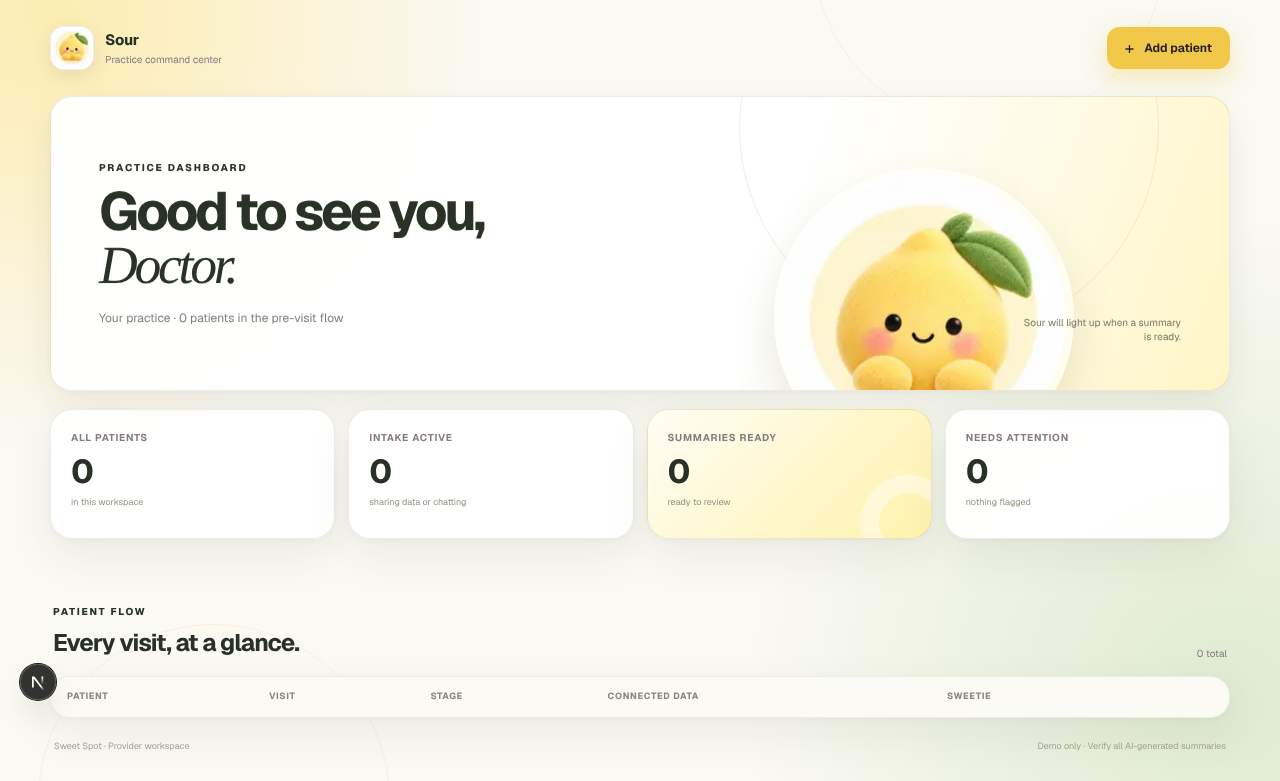
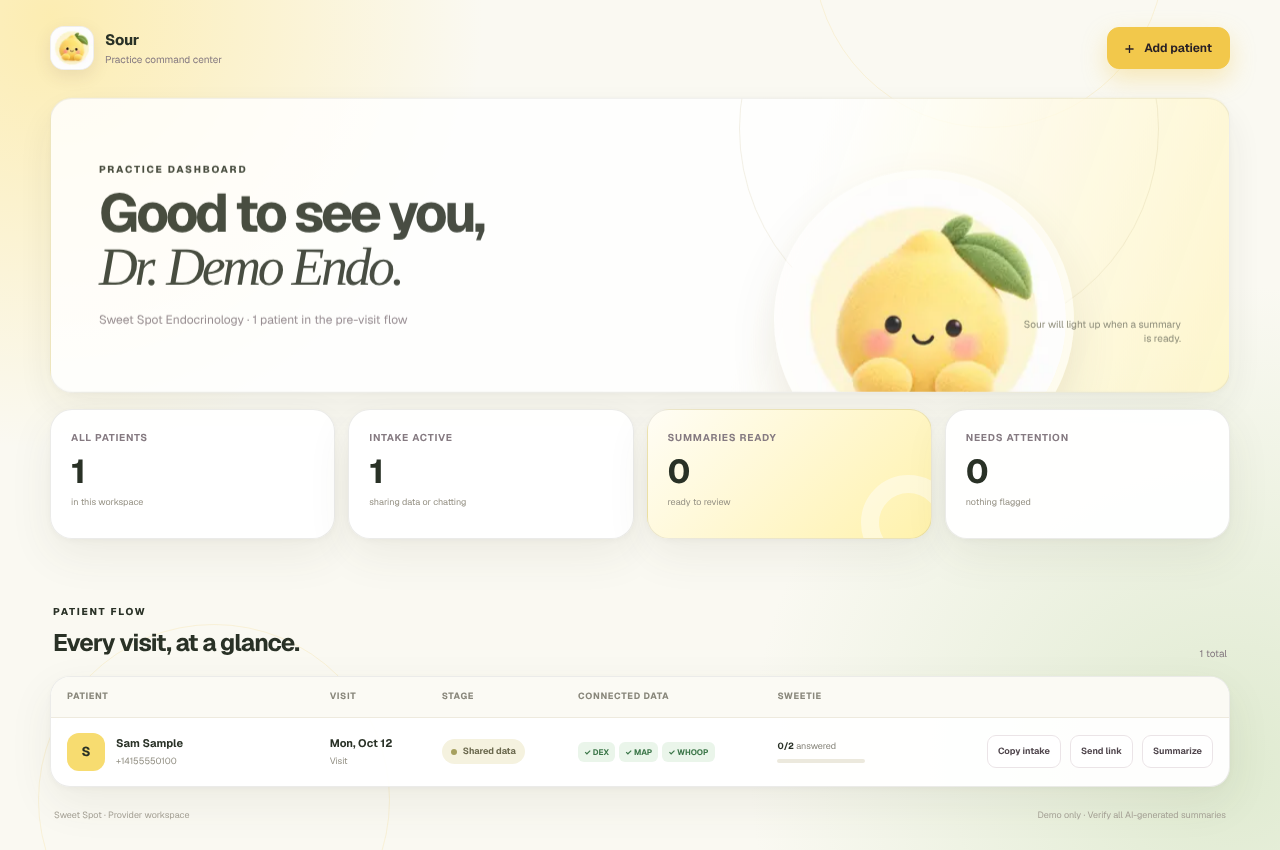
Review: log a minted request id whole, and retake the screenshots
sanitize() ran every allowed string through scrub(), which reads the digits and hyphens of a UUID as a phone
number. Measured over 200k minted ids, one in four came out mangled: d1e1ec17-9580-4837-8dc0-bdb9e8a88e4f was
logged as d1e1ec[number]dc0-bdb9e8a88e4f while the caller held the real id from the x-request-id header, so
the two no longer joined up and the Logs Insights query in docs/LOGGING.md returned nothing for that request.
A value that matches the UUID shape requestIdFrom enforces now passes through untouched; anything else
arriving as requestId is still scrubbed, so a caller's text cannot ride in.

Three tests cover it, two of which fail without the change: a minted id survives sanitize and formatLine, a
non-UUID requestId is still scrubbed, and the id on the response equals the id in the log line across 200
requests through withRoute.

Screenshots retaken after merging main, so they are from the production-build server and the e2e waits T01
fixed; the committed set was catching the dashboard and the summary mid-fetch.

Claude-Session: https://claude.ai/code/session_01Gd6Q1NRdbFCYv1PgJMTjMi

diff --git a/lib/log.test.ts b/lib/log.test.ts
@@ -97,6 +97,37 @@ test("a caller cannot put text of their own on every line of a request", () => {
   }
 });
 
+test("a minted request id reaches the log whole", () => {
+  // scrub() reads the digits and hyphens of a UUID as a phone number, which mangled one id in four:
+  // `d1e1ec17-9580-4837-8dc0-bdb9e8a88e4f` was logged as `d1e1ec[number]dc0-bdb9e8a88e4f` while the caller
+  // held the real id from the x-request-id header. A UUID carries nothing to scrub.
+  for (const id of ["d1e1ec17-9580-4837-8dc0-bdb9e8a88e4f", "f81940ea-5424-4388-a7ae-d882c265b694", "58afbb93-0246-4903-8ef0-e2afa91429f9", "afce7b3e-57fd-4f92-9141-2a5b12a79284"]) {
+    assert.equal(sanitize({ requestId: id }).requestId, id);
+    assert.equal(parse(formatLine("info", "request", { requestId: id })).requestId, id);
+  }
+});
+
+test("a request id that is not a minted uuid is still scrubbed", () => {
+  assert.equal(sanitize({ requestId: "call +1 415 555 0132" }).requestId, "call [number]");
+});
+
+test("the request id on the response is the one written to the log", async () => {
+  // The property the header exists for. One run in four used to break it, so this walks enough ids to catch
+  // a regression on the first failing shape rather than on a lucky one.
+  const lines: string[] = [];
+  setLogSink((_level, line) => lines.push(line));
+  try {
+    const handler = withRoute("GET /api/health", async () => new Response("{}", { status: 200 }));
+    for (let i = 0; i < 200; i++) {
+      lines.length = 0;
+      const res = await handler(new Request("http://localhost/api/health"));
+      assert.equal(parse(lines[0]).requestId, res.headers.get("x-request-id"));
+    }
+  } finally {
+    setLogSink();
+  }
+});
+
 test("withRoute logs one access line and echoes the request id on the response", async () => {
   const lines: string[] = [];
   setLogSink((_level, line) => lines.push(line));

diff --git a/lib/log.ts b/lib/log.ts
@@ -121,6 +121,11 @@ export function sanitize(fields: Fields): Fields {
     }
     if (key === "error") kept[key] = errorValue(value, MAX_TEXT);
     else if (key === "stack") kept[key] = scrub(value instanceof Error ? (value.stack ?? "") : String(value), MAX_STACK);
+    // A minted request id goes through whole. scrub() otherwise reads the digits and hyphens of a UUID as a
+    // phone number and mangles one id in four — `d1e1ec17-9580-4837-8dc0-…` is logged as `d1e1ec[number]dc0-…`
+    // while the caller holds the real id from the x-request-id header, so the two no longer join up and the
+    // §11.1 "follow one request" query returns nothing. A UUID cannot be PHI, so there is nothing to scrub.
+    else if (key === "requestId" && typeof value === "string" && OPAQUE_REQUEST_ID.test(value)) kept[key] = value.toLowerCase();
     else if (typeof value === "string") kept[key] = scrub(value, MAX_TEXT);
     else if (typeof value === "number" || typeof value === "boolean") kept[key] = value;
     else kept[key] = errorValue(value, MAX_TEXT);

diff --git a/docs/screenshots/tickets/t13/README.md b/docs/screenshots/tickets/t13/README.md
@@ -13,10 +13,10 @@ nothing a patient or a clinician sees.
 | `desktop-sweetie-done.png` | `/s/<token>` after intake wraps |
 | `desktop-patient-summary.png` | `/patient/<token>` |
 
-`desktop-patient-summary.png` catches the page on its loading card. That is the e2e suite screenshotting
-before the bundle fetch resolves — the wait bug already filed as T38 (#39) — not a change from this ticket.
-Waiting for the card to disappear shows the summary rendering normally through the wrapped
-`/api/patient/[id]` route.
+Retaken in review after `main` was merged into this branch, so they come from the production-build server and
+from the e2e waits T01 fixed: every screen here is loaded rather than a shell. `desktop-patient-summary.png`
+is the loaded empty-data card, which is correct for the E2E patient — it has no uploads. The earlier set, taken
+before that merge, caught the dashboard and the summary mid-fetch.
 
 ## What the logs actually look like
 

diff --git a/docs/LOGGING.md b/docs/LOGGING.md
@@ -85,6 +85,13 @@ protection.
 substrings with `[email]` and `[number]` and caps the length. That is what makes it safe to log a Prisma or
 SES error that quotes the address it failed on.
 
+One exception: a `requestId` that is already the UUID shape the app mints is written through unchanged.
+`scrub()` reads the digits and hyphens of a UUID as a phone number and mangled one id in four —
+`d1e1ec17-9580-4837-8dc0-…` came out as `d1e1ec[number]dc0-…`, which no longer matched the `x-request-id`
+the caller was handed, so the query at the bottom of this page returned nothing for that request. A UUID
+cannot hold PHI, so there is nothing to take out of it. Anything else arriving as `requestId` is still
+scrubbed.
+
 ## Enforcement
 
 - `npm run lint` fails on `console.*` anywhere in `app/`, `lib/`, or `components/` (`no-console` in
